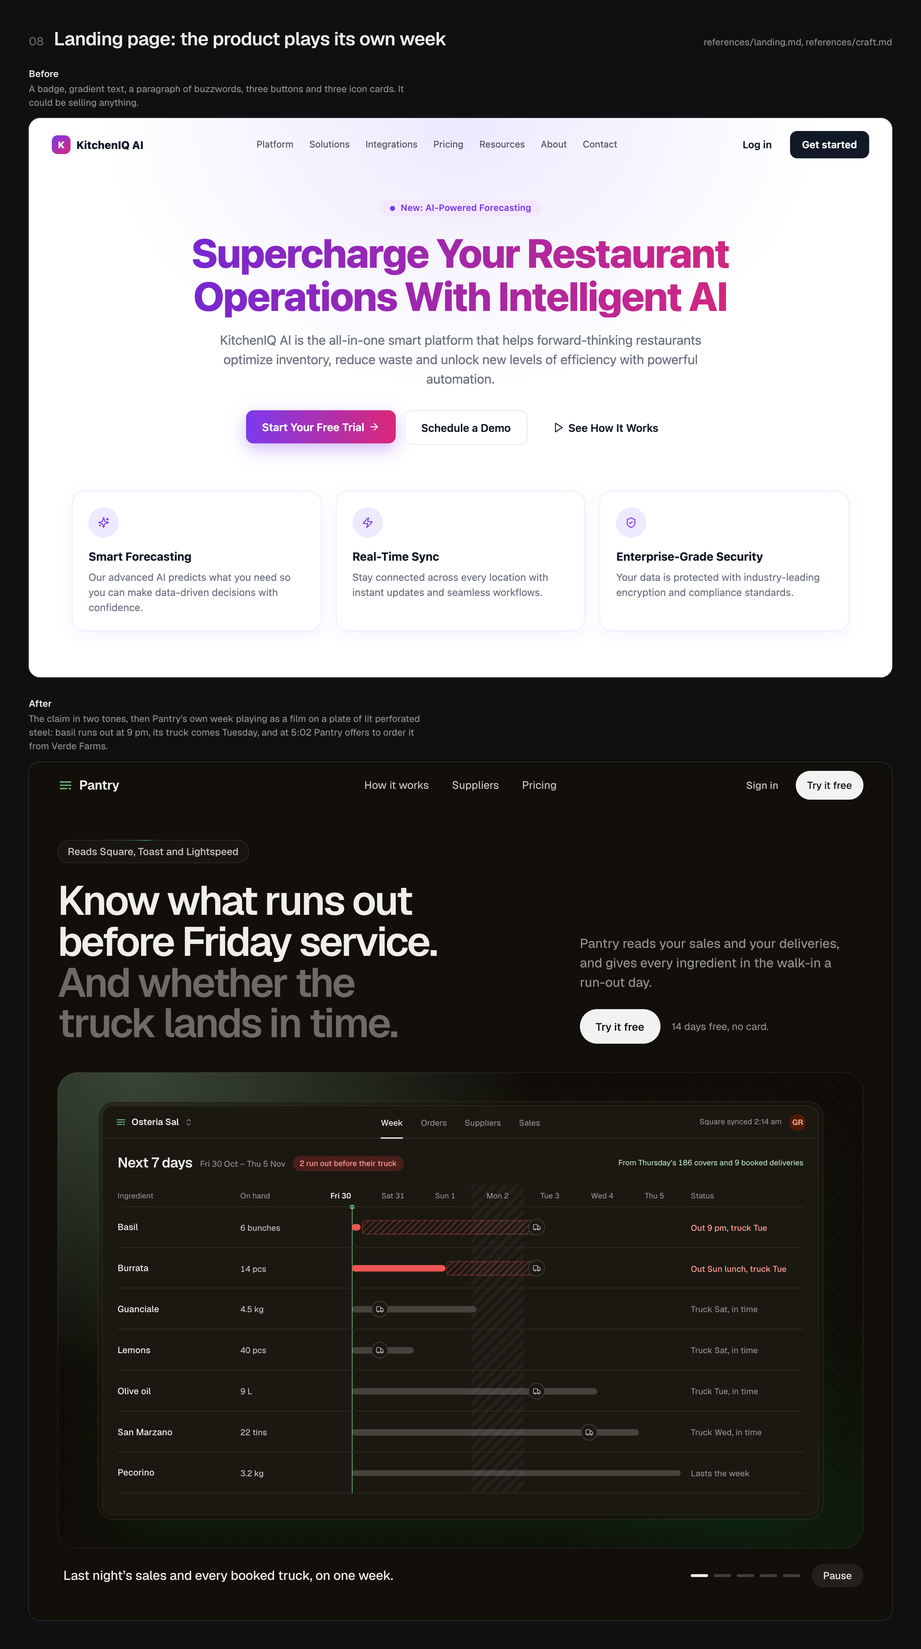
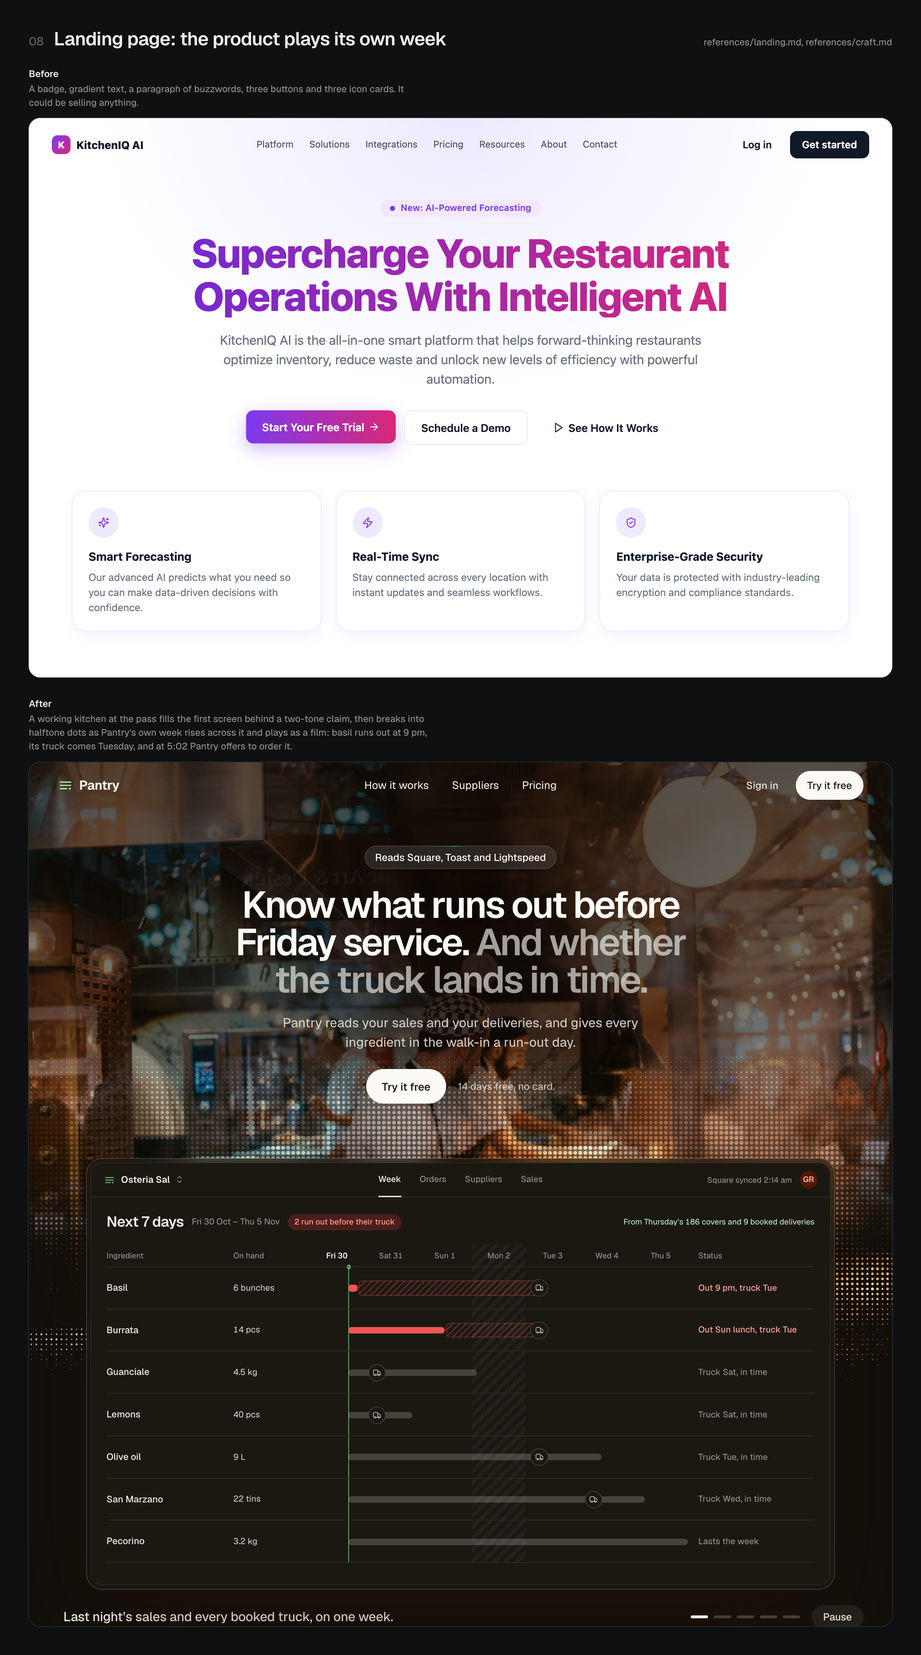
ui-director 2.1.0: the backdrop
Pages that sell now stand on a backdrop with depth and light, the way
the reference sites do: a photograph from the product's world, full-bleed
and graded, breaking into halftone dots that fade into the page while the
product window rises across the seam. craft.md carries the recipe,
landing.md checks for it, and free-licensed photographs are a source when
there's no image tool.

The Pantry landing now stands in a working kitchen and the Seam landing
on a motorway at night (both photographs from Unsplash, credited).

diff --git a/docs/ui-director/pairs/08-landing-product/after.html b/docs/ui-director/pairs/08-landing-product/after.html
@@ -11,7 +11,8 @@
   /* Live product. The hero is Pantry's own week, playing one Friday at Osteria Sal as a film:
      basil runs out at 9 pm, its truck is Tuesday, Pantry asks at 5:02 and Verde Farms drops it at 6.
      Basil green on kitchen paper. The material is a hotel pan's perforated steel, lit by basil.
-     Red only for what runs out before its truck. */
+     Red only for what runs out before its truck.
+     Photo: Nicolas J Leclercq on Unsplash (unsplash.com/photos/KBjDo_QA1lY). */
   :root { --accent-h: 148; --accent-c: .8; --tint-h: 80; --tint-c: .01;
           --gutter: clamp(20px, 4vw, 40px);
           --hair: inset 0 0 0 .5px color-mix(in oklch, var(--ink) 14%, transparent);
@@ -164,6 +165,32 @@
     @keyframes enter { from { opacity: 0; transform: translateY(24px); filter: blur(12px); } }
   }
 
+  /* The hero: a working kitchen at the pass, graded warm. Its bottom breaks into dots and fades
+     into the page, and Pantry's window rises across the seam. */
+  .hero { position: relative; isolation: isolate; height: 880px; overflow: hidden; color-scheme: dark;
+    --ink: oklch(.985 .006 80); --ink-2: oklch(.93 .012 80); --muted: oklch(.86 .015 80); --line-strong: oklch(1 0 0 / .28);
+    --strong: oklch(.985 .006 80); --strong-hover: oklch(.92 .01 80); --on-strong: oklch(.22 .02 60); }
+  .hero .photo, .hero .dissolve { position: absolute; inset: 0; z-index: -2; width: 100%; height: 100%; }
+  .hero .photo { object-fit: cover; object-position: 50% 40%; filter: saturate(.92) contrast(1.04);
+    -webkit-mask: linear-gradient(#000 50%, transparent 76%); mask: linear-gradient(#000 50%, transparent 76%); }
+  .hero .dissolve { z-index: -1; }
+  .hero::before { content: ""; position: absolute; inset: 0; z-index: -1; pointer-events: none;
+    background: radial-gradient(52% 42% at 50% 34%, oklch(.14 .02 55 / .55), transparent 100%),
+                linear-gradient(180deg, oklch(.16 .02 55 / .7), oklch(.16 .02 55 / .45) 42%, oklch(.16 .02 55 / .2) 56%, transparent 74%); }
+  .hero .logo svg { color: oklch(.86 .12 140); }
+  .hero .head { grid-template-columns: 1fr; justify-items: center; text-align: center; padding-top: 52px; }
+  .hero h1 { max-width: 19ch; margin-inline: auto; font-size: clamp(2.5rem, 1rem + 3vw, 3.5rem); }
+  .hero .quiet { color: oklch(.985 .006 80 / .62); }
+  .hero .lede { margin: 20px auto 0; color: oklch(.95 .01 80 / .82); max-width: 46ch; }
+  .hero .act { justify-content: center; }
+  .hero .risk { color: oklch(.95 .01 80 / .78); }
+  .hero .fact { color: var(--ink); background: oklch(1 0 0 / .1); -webkit-backdrop-filter: blur(12px); backdrop-filter: blur(12px); }
+  .film { position: relative; z-index: 1; margin-top: -330px; }
+  .film .plate { max-width: 1040px; margin-inline: auto; }
+  .film .plate { margin-top: 0; padding: 0; background: none; box-shadow: none; overflow: visible; }
+  .film .plate::after { display: none; }
+  .window { box-shadow: inset 0 0 0 .5px oklch(1 0 0 / .35), 0 60px 120px -40px oklch(.2 .04 50 / .55), 0 0 0 1px oklch(0 0 0 / .04); }
+
   @media (max-width: 720px) {
     .links, .nav .ghost { display: none; }
     .head { grid-template-columns: 1fr; row-gap: 20px; padding-top: 24px; }
@@ -175,7 +202,10 @@
 </style>
 </head>
 <body class="bleed">
-<div class="page">
+<section class="hero">
+  <img class="photo" src="kitchen.jpg" width="2000" height="1333" alt="" fetchpriority="high">
+  <canvas class="dissolve" aria-hidden="true"></canvas>
+  <div class="page">
   <nav class="nav">
     <span class="logo"><svg viewBox="0 0 24 24" fill="none" stroke="currentColor" stroke-width="2" stroke-linecap="round" aria-hidden="true"><path d="M4 7h16M4 12h16M4 17h10"/><circle cx="18.5" cy="17" r="1.6" fill="currentColor" stroke="none"/></svg>Pantry</span>
     <span class="links"><span>How it works</span><span>Suppliers</span><span>Pricing</span></span>
@@ -192,6 +222,9 @@
       <div class="act enter" style="--i:3"><a class="btn go" href="#">Try it free</a><span class="risk">14 days free, no card.</span></div>
     </div>
   </header>
+  </div>
+</section>
+<div class="page">
 
   <section class="film enter" style="--i:5; --hold: 4200ms" data-film aria-label="One Friday at Osteria Sal, in Pantry">
     <div class="plate">
@@ -263,6 +296,30 @@
 <script src="https://cdn.jsdelivr.net/npm/lucide@0.469.0/dist/umd/lucide.min.js"></script>
 <script src="../pair.js"></script>
 <script>
+  // The kitchen breaks into dots at the bottom of the hero: each cell takes the photo's colour, and
+  // shrinks toward the page, the bright cells holding on longest.
+  const hero = document.querySelector('.hero'), photo = hero.querySelector('.photo'), cv = hero.querySelector('.dissolve');
+  const grain = (x, y) => { const s = Math.sin(x * 127.1 + y * 311.7) * 43758.5453; return s - Math.floor(s); };
+  function dissolve() {
+    const W = hero.clientWidth, H = hero.clientHeight, dpr = Math.min(2, devicePixelRatio), cell = 7, from = H * .44;
+    cv.width = W * dpr; cv.height = H * dpr; const c = cv.getContext('2d'); c.setTransform(dpr, 0, 0, dpr, 0, 0);
+    const cols = Math.ceil(W / cell), rows = Math.ceil(H / cell), iw = photo.naturalWidth, ih = photo.naturalHeight, k = Math.max(W / iw, H / ih);
+    const off = Object.assign(document.createElement('canvas'), { width: cols, height: rows }), o = off.getContext('2d', { willReadFrequently: true });
+    o.drawImage(photo, (W - iw * k) * .5 / cell, (H - ih * k) * .4 / cell, iw * k / cell, ih * k / cell);
+    const px = o.getImageData(0, 0, cols, rows).data;
+    for (let j = Math.floor(from / cell); j < rows; j++) {
+      const p = (j * cell + cell / 2 - from) / (H - from);
+      for (let i = 0; i < cols; i++) {
+        const q = (j * cols + i) * 4, lum = (px[q] * .3 + px[q + 1] * .59 + px[q + 2] * .11) / 255;
+        const r = cell * .5 * Math.min(1, p * 4) * Math.max(0, 1 - p * (1.2 - lum * .7) - grain(i, j) * .25 * p);
+        if (r < .45) continue;
+        c.fillStyle = `rgb(${px[q]} ${px[q + 1]} ${px[q + 2]})`; c.beginPath(); c.arc(i * cell + cell / 2, j * cell + cell / 2, r, 0, 7); c.fill();
+      }
+    }
+  }
+  if (photo.complete && photo.naturalWidth) dissolve(); else photo.addEventListener('load', dissolve);
+  addEventListener('resize', dissolve);
+
   // The film runs on its own clock; the window's CSS reads [data-chapter].
   const film = document.querySelector('[data-film]'), steps = [...film.querySelectorAll('[data-step]')], caps = [...film.querySelectorAll('.captions > p')];
   const toggle = film.querySelector('[data-pause]'), hold = parseFloat(getComputedStyle(film).getPropertyValue('--hold'));

diff --git a/docs/ui-director/pairs/11-landing-dark/after.html b/docs/ui-director/pairs/11-landing-dark/after.html
@@ -10,7 +10,8 @@
   /* Direction. Dark because it lives next to a terminal, graphite with no accent hue: light is kept
      for the one thing that should glow, the write traffic. The signature is the hole the migration
      punches in it. Red only for that hole and what it blocks, green only when it's gone.
-     Brand material: writes as a field of thin ticks (the logo, the window, the week strip). */
+     Brand material: writes as a field of thin ticks (the logo, the window, the week strip).
+     Photo: Robin Pierre on Unsplash (unsplash.com/photos/dPgPoiUIiXk). */
   :root[data-theme] {
     --bg: #050506; --panel: #09090b; --surface: #111113; --fill: #18181b; --hover: #212125; --press: #2a2a2f;
     --line: rgb(244 244 246 / .08); --line-strong: rgb(244 244 246 / .14);
@@ -41,6 +42,18 @@
   .nav .end { justify-self: end; display: flex; align-items: center; gap: 6px; }
   .nav .btn { height: 36px; padding: 0 14px; font-size: 14px; }
 
+  /* The backdrop: a motorway at night, writes as light. White trails flow, red ones are held.
+     Its lower half breaks into dots and fades into the page; the report rises across the seam. */
+  body { position: relative; }
+  main { position: relative; z-index: 1; }
+  .backdrop { position: absolute; inset: 190px 0 auto; height: 1000px; z-index: 0; overflow: hidden; pointer-events: none; }
+  .backdrop > * { position: absolute; inset: 0; width: 100%; height: 100%; }
+  .backdrop .photo { object-fit: cover; object-position: 50% 30%; filter: saturate(1.05);
+    -webkit-mask: linear-gradient(transparent, #000 14% 52%, transparent 80%); mask: linear-gradient(transparent, #000 14% 52%, transparent 80%); }
+  
+  .film .plate { max-width: 1060px; margin-inline: auto; background: rgb(244 244 246 / .035); -webkit-backdrop-filter: blur(18px) saturate(1.3); backdrop-filter: blur(18px) saturate(1.3); }
+  .film .plate::after { display: none; }
+
   /* first screen */
   .hero { padding-top: 44px; }
   .fact { display: inline-flex; align-items: center; gap: 8px; height: 32px; padding: 0 14px; border-radius: 999px; font: 500 14px/1 var(--font);
@@ -55,7 +68,7 @@
   .actions small { font-size: 13px; color: var(--muted); }
 
   /* the film: Seam's report on a lit plate */
-  .film { margin-top: 48px; }
+  .film { margin-top: 150px; }
   .plate { position: relative; isolation: isolate; overflow: hidden; border-radius: 28px; padding: 8px; box-shadow: var(--hair);
     background: radial-gradient(70% 55% at 50% 0%, rgb(244 244 246 / .1), transparent 70%),
                 radial-gradient(50% 40% at 100% 100%, rgb(244 244 246 / .03), transparent 70%), var(--panel); }
@@ -224,6 +237,7 @@
 </style>
 </head>
 <body class="bleed">
+  <div class="backdrop" aria-hidden="true"><img class="photo" src="trails.jpg" width="2000" height="1333" alt="" fetchpriority="high"><canvas class="dissolve"></canvas></div>
   <header class="nav">
     <a class="logo" href="#"><svg viewBox="0 0 20 20" fill="none" stroke="currentColor" stroke-width="1.75" stroke-linecap="round" aria-hidden="true"><path d="M2 15V9M4.75 15V6.5M7.5 15V10M12.5 15V3.5M15.25 15V7M18 15V9.5"/></svg>Seam</a>
     <nav class="mid" aria-label="Main"><a href="#">How it works</a><a href="#">Docs</a><a href="#">Pricing</a><a href="#">Changelog</a></nav>
@@ -396,6 +410,30 @@
 <script src="https://cdn.jsdelivr.net/npm/lucide@0.469.0/dist/umd/lucide.min.js"></script>
 <script src="../pair.js"></script>
 <script>
+  // The night breaks into dots: each cell takes the photo's colour and shrinks toward the page,
+  // the bright trails holding on longest.
+  const back = document.querySelector('.backdrop'), photo = back.querySelector('.photo'), cv = back.querySelector('.dissolve');
+  const grain = (x, y) => { const s = Math.sin(x * 127.1 + y * 311.7) * 43758.5453; return s - Math.floor(s); };
+  function dissolve() {
+    const W = back.clientWidth, H = back.clientHeight, dpr = Math.min(2, devicePixelRatio), cell = 7, from = H * .46;
+    cv.width = W * dpr; cv.height = H * dpr; const c = cv.getContext('2d'); c.setTransform(dpr, 0, 0, dpr, 0, 0);
+    const cols = Math.ceil(W / cell), rows = Math.ceil(H / cell), iw = photo.naturalWidth, ih = photo.naturalHeight, k = Math.max(W / iw, H / ih);
+    const off = Object.assign(document.createElement('canvas'), { width: cols, height: rows }), o = off.getContext('2d', { willReadFrequently: true });
+    o.drawImage(photo, (W - iw * k) * .5 / cell, (H - ih * k) * .3 / cell, iw * k / cell, ih * k / cell);
+    const px = o.getImageData(0, 0, cols, rows).data;
+    for (let j = Math.floor(from / cell); j < rows; j++) {
+      const p = (j * cell + cell / 2 - from) / (H - from);
+      for (let i = 0; i < cols; i++) {
+        const q = (j * cols + i) * 4, lum = (px[q] * .3 + px[q + 1] * .59 + px[q + 2] * .11) / 255;
+        const r = cell * .5 * Math.min(1, p * 4) * Math.max(0, 1 - p * (1.15 - lum * .8) - grain(i, j) * .25 * p);
+        if (r < .45 || lum < .04) continue;
+        c.fillStyle = `rgb(${px[q]} ${px[q + 1]} ${px[q + 2]})`; c.beginPath(); c.arc(i * cell + cell / 2, j * cell + cell / 2, r, 0, 7); c.fill();
+      }
+    }
+  }
+  if (photo.complete && photo.naturalWidth) dissolve(); else photo.addEventListener('load', dissolve);
+  addEventListener('resize', dissolve);
+
   const nav = document.querySelector('.nav');
   addEventListener('scroll', () => nav.toggleAttribute('data-scrolled', scrollY > 8), { passive: true });
 

diff --git a/skills/ui-director/references/craft.md b/skills/ui-director/references/craft.md
@@ -5,6 +5,70 @@ content come from your direction, and you use the pieces your grammar needs. Var
 are the roles from `system.md`; with no brand hue (graphite, light only on what glows), use the
 ink at low alpha where they use `--brand-*`. Motion timings are in `motion.md`.
 
+## The backdrop
+
+The first screen stands on a backdrop, never a flat color: a photograph from the product's
+world, graded to the palette, large and full-bleed. A sky for a browser, a kitchen at the pass
+for an inventory tool, a motorway at night for write traffic. The words sit on its calm area
+(add a scrim from their side), the product window rises across its lower edge, and the
+photograph breaks into halftone dots that fade into the page, so the hero and the page are one
+surface. Without a photograph, the brand material below plays the same part as a live field.
+
+```html
+<section class="hero">
+  <img class="photo" src="kitchen.jpg" width="2000" height="1333" alt="" fetchpriority="high">
+  <canvas class="dissolve" aria-hidden="true"></canvas>
+  <!-- nav, chip, headline, line, action -->
+</section>
+<div class="film">…the window, pulled up across the seam with a negative margin…</div>
+```
+```css
+.hero { position: relative; isolation: isolate; height: 880px; overflow: hidden; }
+.hero .photo, .hero .dissolve { position: absolute; inset: 0; z-index: -2; width: 100%; height: 100%; }
+.hero .photo { object-fit: cover; object-position: 50% 40%;
+  -webkit-mask: linear-gradient(#000 50%, transparent 76%); mask: linear-gradient(#000 50%, transparent 76%); }
+.hero .dissolve { z-index: -1; }
+.hero::before { content: ""; position: absolute; inset: 0; z-index: -1; /* scrim behind the words */
+  background: radial-gradient(52% 42% at 50% 34%, oklch(.14 .02 55 / .55), transparent),
+              linear-gradient(180deg, oklch(.16 .02 55 / .7), transparent 74%); }
+.film { position: relative; z-index: 1; margin-top: -330px; }
+```
+```js
+// The photograph breaks into dots: each cell takes the photo's color and shrinks toward the page,
+// bright cells holding on longest. Serve the page over http: a file:// image can't be read back.
+const hero = document.querySelector('.hero'), photo = hero.querySelector('.photo'), cv = hero.querySelector('.dissolve');
+const grain = (x, y) => { const s = Math.sin(x * 127.1 + y * 311.7) * 43758.5453; return s - Math.floor(s); };
+function dissolve() {
+  const W = hero.clientWidth, H = hero.clientHeight, dpr = Math.min(2, devicePixelRatio), cell = 7, from = H * .44;
+  cv.width = W * dpr; cv.height = H * dpr; const c = cv.getContext('2d'); c.setTransform(dpr, 0, 0, dpr, 0, 0);
+  const cols = Math.ceil(W / cell), rows = Math.ceil(H / cell), iw = photo.naturalWidth, ih = photo.naturalHeight, k = Math.max(W / iw, H / ih);
+  const o = Object.assign(document.createElement('canvas'), { width: cols, height: rows }).getContext('2d', { willReadFrequently: true });
+  o.drawImage(photo, (W - iw * k) * .5 / cell, (H - ih * k) * .4 / cell, iw * k / cell, ih * k / cell); // match object-position
+  const px = o.getImageData(0, 0, cols, rows).data;
+  for (let j = Math.floor(from / cell); j < rows; j++) {
+    const p = (j * cell + cell / 2 - from) / (H - from);
+    for (let i = 0; i < cols; i++) {
+      const q = (j * cols + i) * 4, lum = (px[q] * .3 + px[q + 1] * .59 + px[q + 2] * .11) / 255;
+      const r = cell * .5 * Math.min(1, p * 4) * Math.max(0, 1 - p * (1.2 - lum * .7) - grain(i, j) * .25 * p);
+      if (r < .45) continue;
+      c.fillStyle = `rgb(${px[q]} ${px[q + 1]} ${px[q + 2]})`; c.beginPath(); c.arc(i * cell + cell / 2, j * cell + cell / 2, r, 0, 7); c.fill();
+    }
+  }
+}
+if (photo.complete && photo.naturalWidth) dissolve(); else photo.addEventListener('load', dissolve);
+addEventListener('resize', dissolve);
+```
+
+- Choose the photograph for its calm area and its light: a dark or open sky above, the subject
+  low or to the side, the light from the product's world. Look at the first screen and move the
+  photo (`object-position`, an offset) until no line of text crosses a busy part.
+- Light text over dark photos: the hero sets its own ink, the primary button turns light, the
+  quiet clause at about 60% white.
+- In dark mode the dots fade into the dark page; check both.
+- No photograph and no image tool: the brand material as a canvas field of dots shaped by the
+  product's own data (a waveform, a week of stock, a map), in 2–3 inks from the palette, over soft
+  radial light.
+
 ## Type set like a studio
 
 ```css
@@ -161,8 +225,8 @@ show(0); run();
 
 ## The brand material
 
-One material from the product's world, made once and reused: the hero's ground, the plates
-behind product states, the film's poster, the footer. A halftone field drawn from a voice's
+One material from the product's world, made once and reused: the backdrop, the plates behind
+product states, the film's poster, the footer. A halftone field drawn from a voice's
 waveform, the product's own wallpaper photograph zoomed to a different point for each card, a
 blueprint grid, paper grain. It may drift as the page's one live canvas (paused offscreen,
 still under reduced motion), and it can share a value with the film: the grain falls away as

diff --git a/docs/ui-director/README.md b/docs/ui-director/README.md
@@ -94,7 +94,7 @@ installed the bundle):
 
 | | |
 |---|---|
-| ![Before and after: a landing page where the product plays its own week](gallery/08-landing-product.png) | ![Before and after: a landing page with the bread as a still life](gallery/10-landing-photo.png) |
+| ![Before and after: a kitchen photograph that dissolves into the product playing its own week](gallery/08-landing-product.png) | ![Before and after: a landing page with the bread as a still life](gallery/10-landing-photo.png) |
 | ![Before and after: dissolving nested cards](gallery/07-dissolve.png) | ![Before and after: a table on a phone](gallery/19-phone.png) |
 | ![Before and after: a sailing club's home screen with the day's wind drawn hour by hour](gallery/20-home.png) | ![Before and after: a paywall with one plan and a timeline of the trial](gallery/22-paywall.png) |
 
@@ -118,6 +118,8 @@ npm run shoot                     # every pair, light and dark
 npm run shoot -- 08-landing-product   # one pair
 ```
 
-Photograph from Unsplash: the loaf in pair 10 by
-[Robert Stump](https://unsplash.com/photos/DNqwLdfo0b8). All names, businesses and numbers in the
+Photographs from Unsplash: the kitchen in pair 08 by
+[Nicolas J Leclercq](https://unsplash.com/photos/KBjDo_QA1lY), the loaf in pair 10 by
+[Robert Stump](https://unsplash.com/photos/DNqwLdfo0b8), the motorway in pair 11 by
+[Robin Pierre](https://unsplash.com/photos/dPgPoiUIiXk). All names, businesses and numbers in the
 pairs are made up.

diff --git a/skills/ui-director/SKILL.md b/skills/ui-director/SKILL.md
@@ -39,7 +39,8 @@ Each step ends on something you can check.
    (`references/words.md`) and one coherent sample world. Done when nothing is missing or
    placeholder.
 4. **Make it the one.** Pages that sell: the signature and the finish from
-   `references/craft.md` (`references/visuals.md` for photography and 3D). App UI: the key
+   `references/craft.md`, starting with its backdrop (`references/visuals.md` for photography
+   and 3D). App UI: the key
    object and the moments. Motion from `references/motion.md`. Done when you can point at the
    moment people would screenshot, on the first screen or the first scroll.
 5. **Look.** `references/look.md`: 1440 and 390 wide, light and dark, the whole scroll, every
@@ -120,8 +121,8 @@ keep one only when the product's world gives the reason.
 What any model builds when nothing was chosen. Each piece is fine alone and on purpose; name the
 obvious version in your direction, then leave it.
 
-- A first screen with the headline left and the picture right, or a centered headline over a
-  framed screenshot on a soft glow.
+- A first screen on a flat white or black ground, with the headline left and the picture right,
+  or a centered headline over a framed screenshot on a soft glow.
 - Hero, logo strip, three feature cards, testimonials, pricing, FAQ, dark closing band, in that
   order.
 - The category's stock palette: violet for AI, navy for finance, green for climate, cream and

diff --git a/skills/ui-director/references/landing.md b/skills/ui-director/references/landing.md
@@ -90,6 +90,10 @@ these show. Decide what carries the screen:
 Then place the words: centered over or above the visual, anchored to a bottom corner of a
 full-bleed image, running full width with the product breaking into it, or after the visual.
 
+Whatever carries it, the first screen stands on a backdrop with depth and light: a photograph
+from the product's world, or the brand material as a live field (`craft.md`). A flat white or
+black first screen with a product shot under the headline is the obvious version.
+
 ## Order by the visitor's questions
 
 Order the sections by what this visitor asks next, and drop what they don't ask:
@@ -136,6 +140,8 @@ items each, what's free and how billing works.
 - [ ] The first screen next to the obvious version you wrote: different. Another model given
       this brief wouldn't build it.
 - [ ] The signature is on the first screen or first scroll, and you can point at it.
+- [ ] The first screen stands on a backdrop (a photograph or a live field), not a flat color,
+      and it flows into the page instead of ending on a hard edge.
 - [ ] The first screen says what it is and what you get; one action, one label, in reach.
 - [ ] Every image has a job; the set looks like one shoot or one product.
 - [ ] Sections change form and pace; the peak is the biggest moment; the ending holds.

diff --git a/skills/ui-director/references/visuals.md b/skills/ui-director/references/visuals.md
@@ -9,10 +9,13 @@ its job, its ratio, its source and what the phone gets.
 1. **The user's assets:** their photos, brand library, real screenshots.
 2. **The real product,** for software: rebuilt in code or screenshotted.
 3. **Generated images,** if your harness has any image tool. Check before deciding it doesn't.
-4. **A 3D object,** when the product's form is simple (round, flat, boxy) and turning it sells it.
-5. **Drawings in the subject's own language:** plans and sections for architecture, exploded
+4. **A free-licensed photograph** (Unsplash License or similar) downloaded into the project, its
+   photographer credited in a comment and the README. The fastest beautiful backdrop when there's
+   no image tool.
+5. **A 3D object,** when the product's form is simple (round, flat, boxy) and turning it sells it.
+6. **Drawings in the subject's own language:** plans and sections for architecture, exploded
    diagrams for hardware, maps for travel, notation for music. Line work in SVG, in the palette.
-6. **A labeled slot** carrying its prompt: `<img src="hero.webp" data-prompt="…" alt="…">`, and
+7. **A labeled slot** carrying its prompt: `<img src="hero.webp" data-prompt="…" alt="…">`, and
    tell the user which images to make.
 
 Never hot-link stock photos.

diff --git a/CHANGELOG.md b/CHANGELOG.md
@@ -1,5 +1,19 @@
 # Changelog
 
+## [2.1.0] - 2026-10-27
+
+ui-director 2.1.0. agents-md is unchanged at 1.1.0.
+
+- **ui-director, the backdrop:** a page that sells now stands on a backdrop with depth and light,
+  the way the reference sites do: a photograph from the product's world, full-bleed and graded,
+  breaking into halftone dots that fade into the page while the product window rises across the
+  seam. `craft.md` carries the recipe (scrim, mask, a canvas dissolve that samples the photo),
+  `landing.md` checks for it, and a flat first screen joins the obvious version.
+- **ui-director, images:** a free-licensed photograph, saved into the project and credited, is a
+  source for backdrops when there's no image tool.
+- **Pairs:** the Pantry landing stands in a working kitchen and the Seam landing on a motorway at
+  night, both dissolving into the page.
+
 ## [2.0.0] - 2026-10-27
 
 ui-director 2.0.0 and agents-md 1.1.0.
